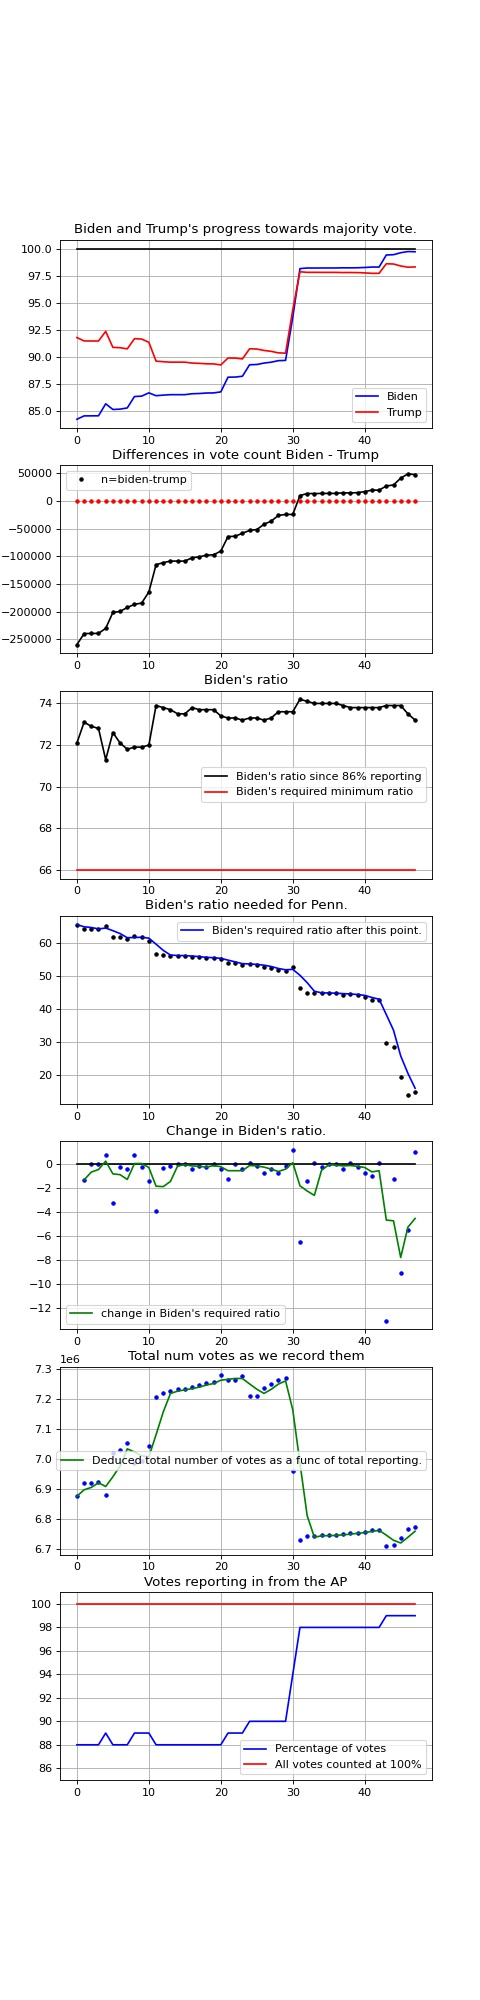
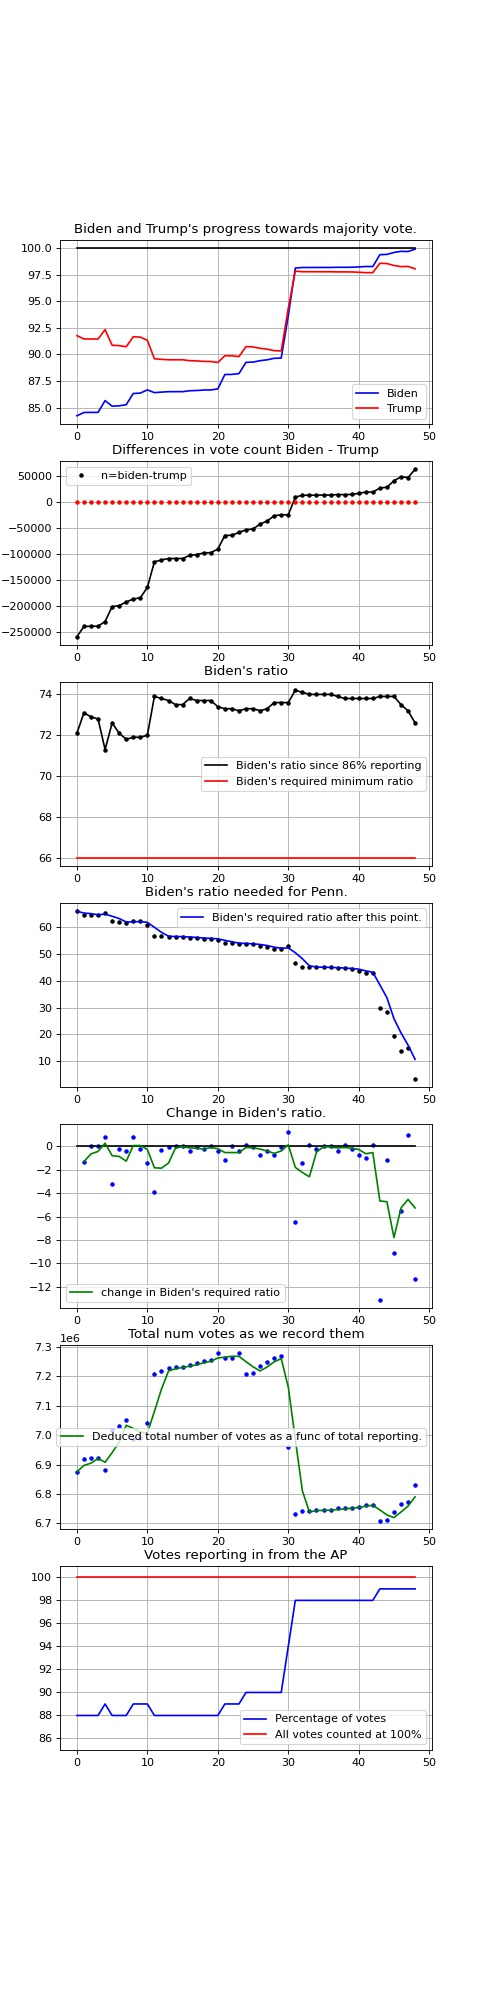
update

diff --git a/penn.py b/penn.py
@@ -16,7 +16,7 @@ reporting = [
     .88, .88, .88, .88, .88, .88, .88, .88, .88, .88, .89,
     .89, .89, .90, .90, .90, .90, .90, .90, .94, .98, .98,
     .98, .98, .98, .98, .98, .98, .98, .98, .98, .98, .99,
-    .99, .99, .99, .99
+    .99, .99, .99, .99, .99
 ]
 
 bidens = [
@@ -24,14 +24,14 @@ bidens = [
     3113911, 3120731, 3125766, 3127552, 3127743, 3134290, 3137658, 3142463, 3143750, 3157309, 3199756,
     3200489, 3209598, 3217079, 3219263, 3235017, 3243717, 3255710, 3258529, 3258529, 3302987, 3310574,
     3310778, 3311673, 3311780, 3311927, 3315158, 3315521, 3316645, 3319552, 3324096, 3324151, 3334633,
-    3337069, 3355387, 3373773, 3376367
+    3337069, 3355387, 3373773, 3376367, 3413427
 ]
 trumps = [
     3154969, 3163949, 3164810, 3165278, 3177086, 3188778, 3192980, 3199203, 3202481, 3203544, 3215983,
     3229011, 3232131, 3234380, 3236175, 3236368, 3236928, 3238682, 3240387, 3240998, 3247875, 3264017,
     3264209, 3267879, 3270295, 3270885, 3277202, 3280102, 3281842, 3282842, 3282842, 3293239, 3297096,
     3297454, 3298011, 3298107, 3298207, 3300413, 3300980, 3301601, 3302630, 3304471, 3304619, 3307459,
-    3308192, 3314164, 3324864, 3328801
+    3308192, 3314164, 3324864, 3328801, 3350092
 ]
 
 assert all([i <= 1.0 for i in reporting]), "Forgot a decimal?"
@@ -40,6 +40,8 @@ assert len(bidens) == len(trumps)
 for i in range(1, len(bidens)):
     assert bidens[i] >= bidens[i - 1]
     assert trumps[i] >= trumps[i - 1]
+
+
 
 
 print("=" * 60)
@@ -55,12 +57,14 @@ new_ratios = []
 totals = []
 races = []
 
+# %% codecell
+
 
 for i in range(len(reporting)):
 
     biden_diff = bidens[i] - BIDEN_INITIAL
     trump_diff = trumps[i] - TRUMP_INITIAL
-    
+
     race = bidens[i] - trumps[i]
     races += [race]
 
@@ -124,7 +128,7 @@ if not VERBOSE:
 
 
 
-
+# %% codecell
 
 
 
@@ -274,59 +278,4 @@ figs.savefig("figures.jpeg")
 
 
 pyplot.show()
-
-
-
-
-
-
-
-
-
-
-
-
-
-
-
-
-
-
-
-
-
-
-
-
-
-
-
-
-
-
-
-
-
-
-
-
-
-
-
-
-
-
-
-
-
-
-
-
-
-
-
-
-
-
-
-
+# %%codecell
